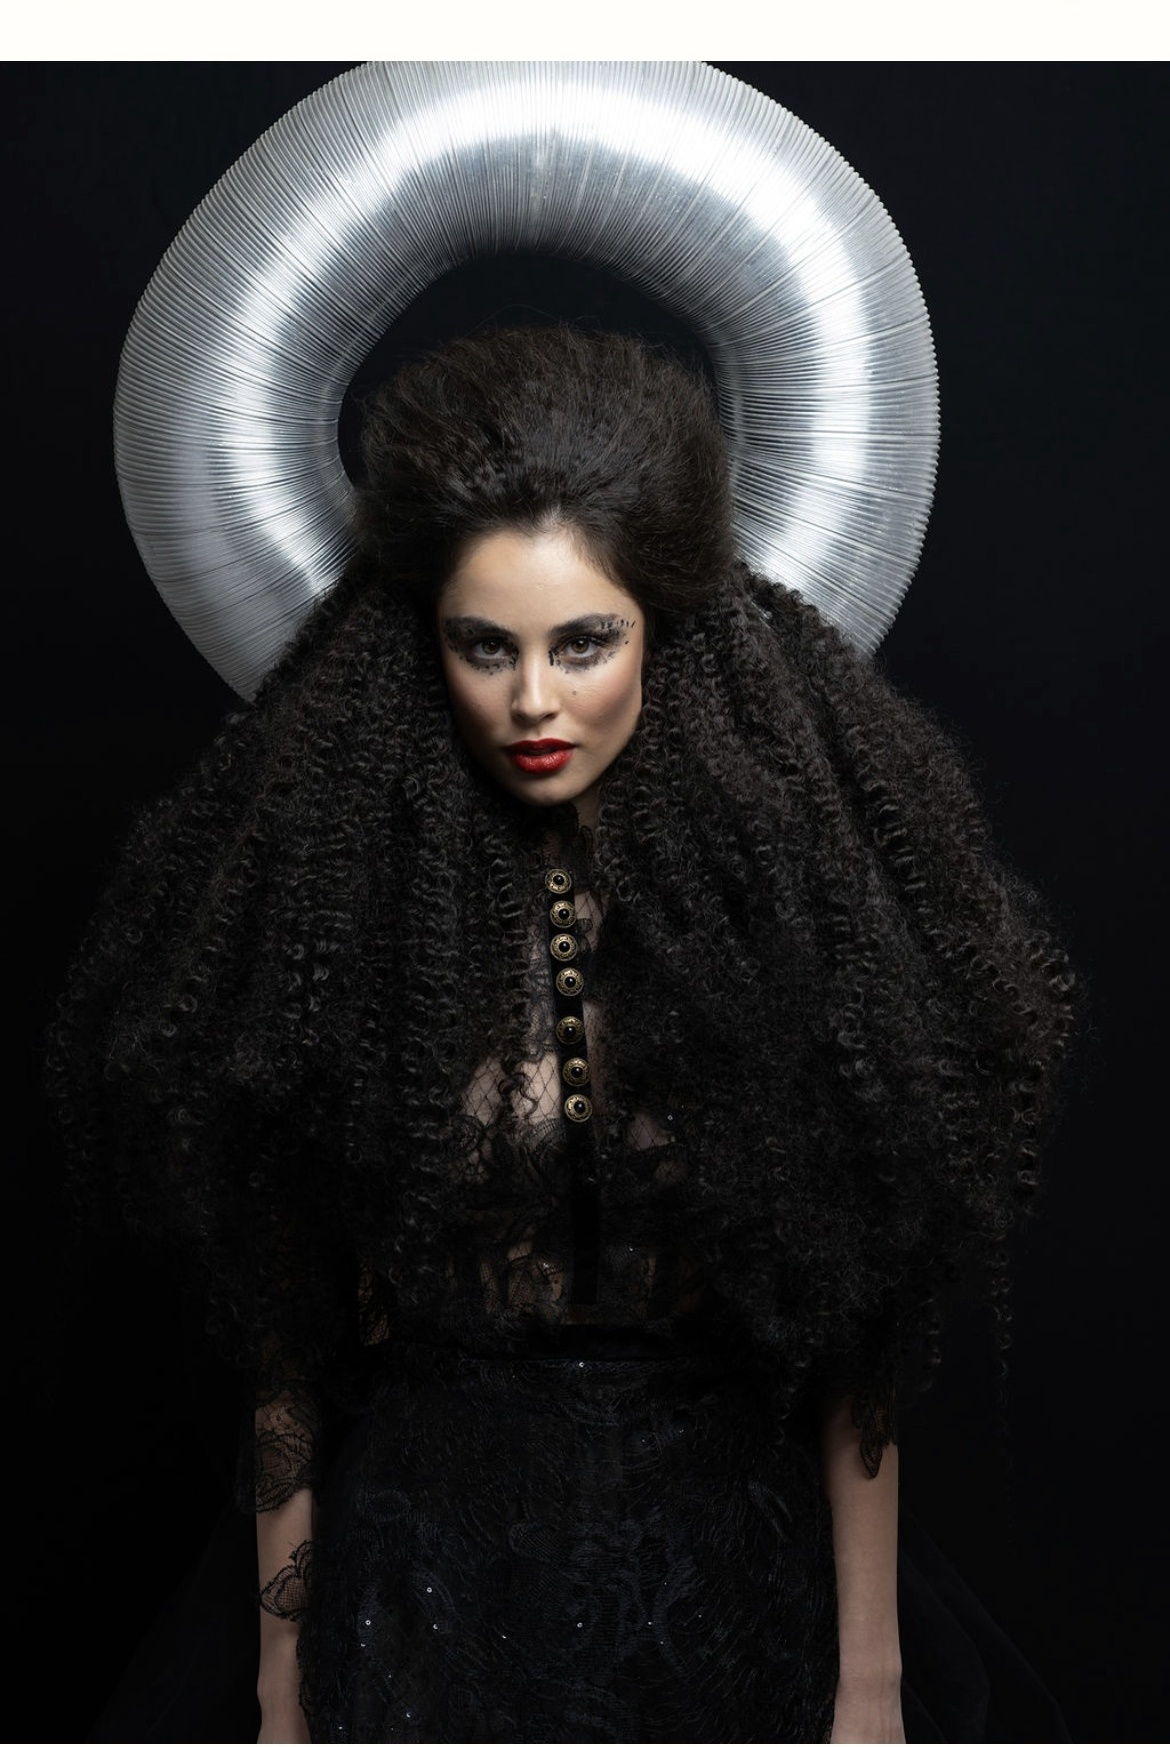
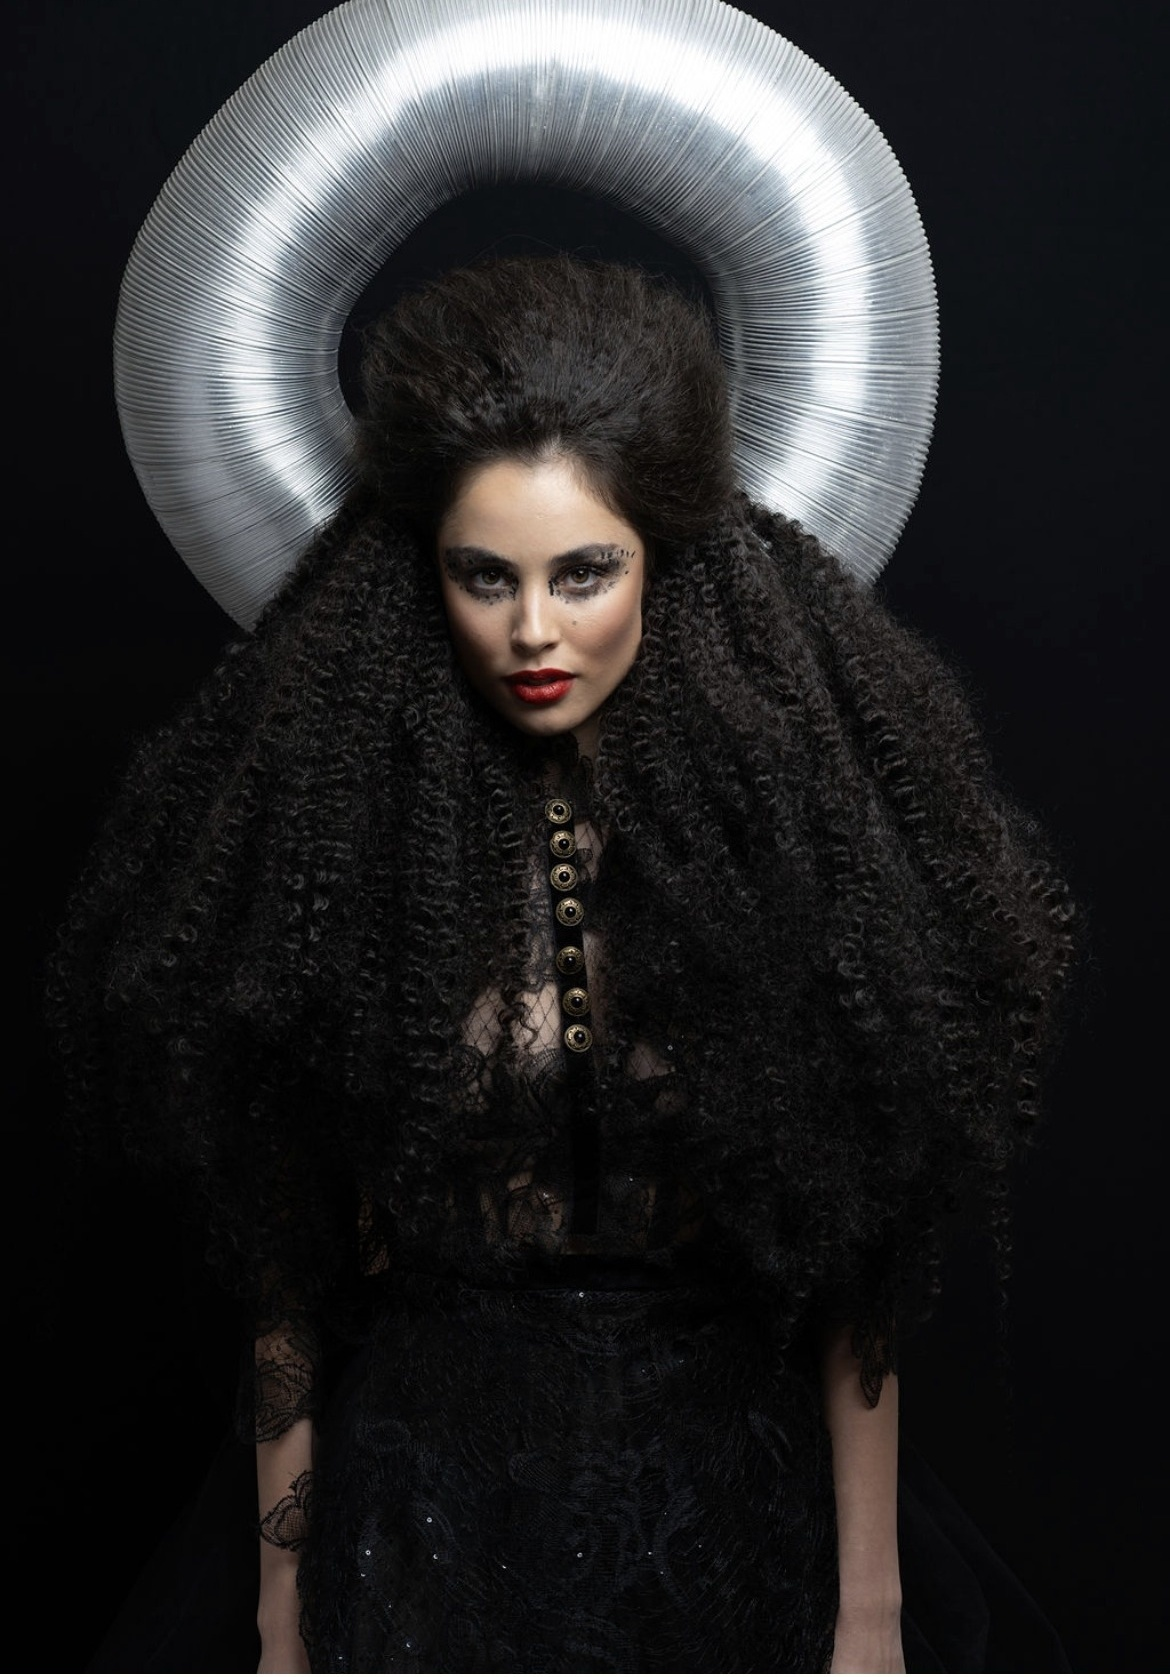
Odstranenie bielych pasov z okraja fotografii a oprava orezania geometrickeho strihu v modalnom okne a kartach

diff --git a/src/pages/HomePage.tsx b/src/pages/HomePage.tsx
@@ -239,7 +239,7 @@ export const HomePage: React.FC<HomePageProps> = ({ onOpenBooking, onSelectPortf
                   <img
                     src={item.image}
                     alt={item.title}
-                    className="w-full h-full object-cover object-top group-hover:scale-105 transition-transform duration-500 filter brightness-[0.92]"
+                    className="w-full h-full object-cover object-top group-hover:scale-105 transition-transform duration-500"
                   />
                   {item.hasBeforeAfter && (
                     <div className="absolute top-3 left-3">
@@ -327,7 +327,7 @@ export const HomePage: React.FC<HomePageProps> = ({ onOpenBooking, onSelectPortf
                     <img
                       src={item.img}
                       alt={item.title}
-                      className="w-full h-full object-cover group-hover:scale-105 transition-transform duration-500 filter brightness-[0.92]"
+                      className="w-full h-full object-cover group-hover:scale-105 transition-transform duration-500"
                     />
                     <div className="absolute inset-0 bg-gradient-to-t from-black/85 via-black/20 to-transparent opacity-90 group-hover:opacity-100 transition-opacity" />
                     <div className="absolute bottom-3 left-3 right-3 space-y-0.5">

diff --git a/src/components/PortfolioModal.tsx b/src/components/PortfolioModal.tsx
@@ -120,15 +120,14 @@ export const PortfolioModal: React.FC<PortfolioModalProps> = ({
               </div>
             </div>
           ) : (
-            <div className="relative w-full h-[52vh] sm:h-[62vh] bg-black flex items-center justify-center overflow-hidden">
+            <div className="relative w-full h-[54vh] sm:h-[64vh] bg-black flex items-center justify-center overflow-hidden p-3 sm:p-6">
               {/* Volumetric ambient glow */}
               <div
-                className="absolute inset-0 bg-cover bg-top filter blur-3xl opacity-20 scale-125 pointer-events-none"
+                className="absolute inset-0 bg-cover bg-center filter blur-3xl opacity-15 scale-125 pointer-events-none"
                 style={{ backgroundImage: `url(${item.image})` }}
               />
-              <div className="absolute inset-0 bg-gradient-to-t from-zinc-950 via-transparent to-black/60 pointer-events-none z-10" />
 
-              {/* Full photo */}
+              {/* Full photo - uncropped, complete hairstyle and face visible */}
               <img
                 src={item.image}
                 alt={item.title}

diff --git a/src/components/PortfolioSection.tsx b/src/components/PortfolioSection.tsx
@@ -72,7 +72,7 @@ export const PortfolioSection: React.FC<PortfolioSectionProps> = ({ onSelectItem
                 <img
                   src={item.image}
                   alt={item.title}
-                  className="w-full h-full object-cover object-top group-hover:scale-105 transition-transform duration-500 filter brightness-[0.92]"
+                  className="w-full h-full object-cover object-top group-hover:scale-105 transition-transform duration-500"
                 />
                 
                 {item.hasBeforeAfter && (
